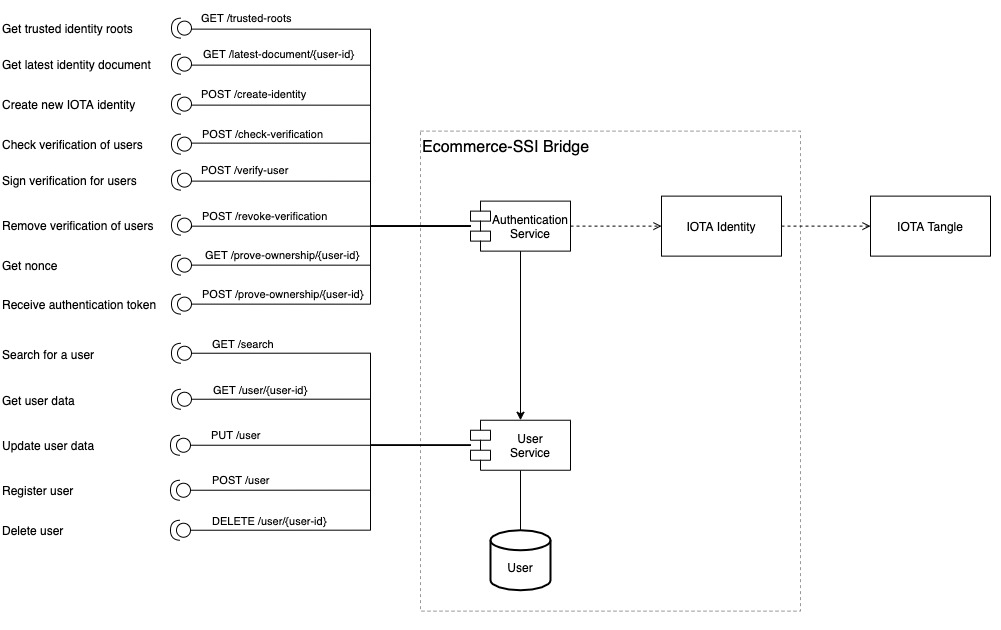
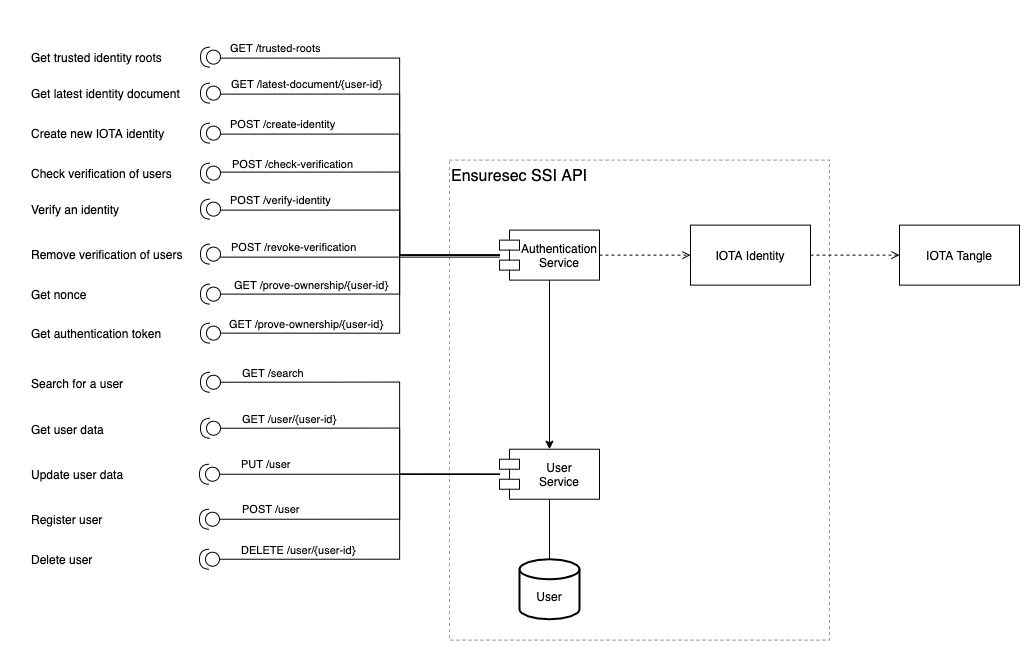
rename verify-user to verify-identity

diff --git a/api/src/routes/authentication/tests/verify-user.test.ts b/api/src/routes/authentication/tests/verify-user.test.ts
@@ -51,7 +51,7 @@ describe('test authentication routes', () => {
 			status: jest.fn(() => res)
 		};
 	});
-	describe('test verifyUser route', () => {
+	describe('test verifyIdentity route', () => {
 		let createVerifiableCredentialSpy: any, keyCollectionIndex: any, getKeyCollectionSpy: any;
 		let getNextCredentialIndexSpy: any, addVerifiableCredentialSpy: any, updateUserVerificationSpy: any, addUserVCSpy: any;
 		const vcMock = { VCMOCK: 1 };
@@ -77,7 +77,7 @@ describe('test authentication routes', () => {
 					initiatorVC
 				}
 			};
-			await authenticationRoutes.verifyUser(req, res, nextMock);
+			await authenticationRoutes.verifyIdentity(req, res, nextMock);
 
 			expect(getUserSpy).toHaveBeenCalledWith(subject.userId);
 			expect(getKeyCollectionSpy).not.toHaveBeenCalledWith(KEY_COLLECTION_INDEX, ServerIdentityMock.doc.id);
@@ -99,7 +99,7 @@ describe('test authentication routes', () => {
 					}
 				}
 			};
-			await authenticationRoutes.verifyUser(req, res, nextMock);
+			await authenticationRoutes.verifyIdentity(req, res, nextMock);
 
 			expect(getUserSpy).toHaveBeenCalledWith(subject.userId);
 			expect(getKeyCollectionSpy).not.toHaveBeenCalledWith(KEY_COLLECTION_INDEX, ServerIdentityMock.doc.id);
@@ -118,7 +118,7 @@ describe('test authentication routes', () => {
 					initiatorVC
 				}
 			};
-			await authenticationRoutes.verifyUser(req, res, nextMock);
+			await authenticationRoutes.verifyIdentity(req, res, nextMock);
 
 			expect(getUserSpy).toHaveBeenCalledWith(subject.userId);
 			expect(getKeyCollectionSpy).not.toHaveBeenCalledWith(KEY_COLLECTION_INDEX, ServerIdentityMock.doc.id);
@@ -140,7 +140,7 @@ describe('test authentication routes', () => {
 					initiatorVC
 				}
 			};
-			await authenticationRoutes.verifyUser(req, res, nextMock);
+			await authenticationRoutes.verifyIdentity(req, res, nextMock);
 
 			expect(getUserSpy).toHaveBeenCalledWith(subject.userId);
 			expect(checkVerifiableCredentialSpy).toHaveBeenCalledWith(initiatorVC);
@@ -160,7 +160,7 @@ describe('test authentication routes', () => {
 					initiatorVC
 				}
 			};
-			await authenticationRoutes.verifyUser(req, res, nextMock);
+			await authenticationRoutes.verifyIdentity(req, res, nextMock);
 
 			expect(subject.organization).not.toEqual(initiatorVC.credentialSubject.organization);
 			expect(getUserSpy).toHaveBeenCalledWith(subject.userId);
@@ -182,7 +182,7 @@ describe('test authentication routes', () => {
 					initiatorVC
 				}
 			};
-			await authenticationRoutes.verifyUser(req, res, nextMock);
+			await authenticationRoutes.verifyIdentity(req, res, nextMock);
 
 			expect(subject.organization).toEqual(initiatorVC.credentialSubject.organization);
 			expect(getUserSpy).toHaveBeenCalledWith(subject.userId);
@@ -232,7 +232,7 @@ describe('test authentication routes', () => {
 				initiatorId: initiatorVC.id,
 				vc: vcMock
 			};
-			await authenticationRoutes.verifyUser(req, res, nextMock);
+			await authenticationRoutes.verifyIdentity(req, res, nextMock);
 
 			expect(getUserSpy).toHaveBeenCalledWith(subject.userId);
 			expect(getKeyCollectionSpy).toHaveBeenCalledWith(KEY_COLLECTION_INDEX, ServerIdentityMock.doc.id, serverSecret);
@@ -295,7 +295,7 @@ describe('test authentication routes', () => {
 				initiatorId: initiatorVC.id,
 				vc: vcMock
 			};
-			await authenticationRoutes.verifyUser(req, res, nextMock);
+			await authenticationRoutes.verifyIdentity(req, res, nextMock);
 
 			expect(getUserSpy).toHaveBeenCalledWith(subject.userId);
 			expect(getKeyCollectionSpy).toHaveBeenCalledWith(KEY_COLLECTION_INDEX, ServerIdentityMock.doc.id, serverSecret);

diff --git a/api/src/routes/router.ts b/api/src/routes/router.ts
@@ -10,7 +10,7 @@ import { CONFIG } from '../config';
 import { UserService } from '../services/user-service';
 import { ChannelInfoService } from '../services/channel-info-service';
 import { IdentityService } from '../services/identity-service';
-import { RevokeVerificationSchema, VerifyUserSchema } from '../models/schemas/authentication';
+import { RevokeVerificationSchema, VerifyIdentitySchema } from '../models/schemas/authentication';
 import { isAuth } from '../middlewares/authentication';
 import { AuthorizationService } from '../services/authorization-service';
 import { VerifiableCredentialSchema } from '../models/schemas/identity';
@@ -62,7 +62,7 @@ const authenticationService = new AuthenticationService(identityService, userSer
 const authenticationRoutes = new AuthenticationRoutes(authenticationService, userService, authorizationService, CONFIG);
 const {
 	createIdentity,
-	verifyUser,
+	verifyIdentity,
 	checkVerifiableCredential,
 	getNonce,
 	revokeVerifiableCredential,
@@ -77,7 +77,7 @@ authenticationRouter.get('/trusted-roots', apiKeyMiddleware, getTrustedRootIdent
 authenticationRouter.get('/prove-ownership/:userId', apiKeyMiddleware, getNonce);
 authenticationRouter.post('/prove-ownership/:userId', apiKeyMiddleware, validate({ body: ProveOwnershipPostBodySchema }), proveOwnership);
 authenticationRouter.post('/create-identity', apiKeyMiddleware, validate({ body: UserWithoutIdSchema }), createIdentity);
-authenticationRouter.post('/verify-user', apiKeyMiddleware, authMiddleWare, validate({ body: VerifyUserSchema }), verifyUser);
+authenticationRouter.post('/verify-identity', apiKeyMiddleware, authMiddleWare, validate({ body: VerifyIdentitySchema }), verifyIdentity);
 authenticationRouter.post('/check-verification', apiKeyMiddleware, validate({ body: VerifiableCredentialSchema }), checkVerifiableCredential);
 authenticationRouter.post(
 	'/revoke-verification',

diff --git a/api/src/routes/authentication/index.ts b/api/src/routes/authentication/index.ts
@@ -3,7 +3,7 @@ import { StatusCodes } from 'http-status-codes';
 import { CreateIdentityBody, VerifiableCredentialJson } from '../../models/types/identity';
 import { AuthenticationService } from '../../services/authentication-service';
 import { Config } from '../../models/config';
-import { AuthenticatedRequest, AuthorizationCheck, RevokeVerificationBody, VerifyUserBody } from '../../models/types/authentication';
+import { AuthenticatedRequest, AuthorizationCheck, RevokeVerificationBody, VerifyIdentityBody } from '../../models/types/authentication';
 import { UserService } from '../../services/user-service';
 import { User, UserRoles } from '../../models/types/user';
 import * as KeyCollectionLinksDb from '../../database/verifiable-credentials';
@@ -34,10 +34,10 @@ export class AuthenticationRoutes {
 		}
 	};
 
-	verifyUser = async (req: AuthenticatedRequest, res: Response, next: NextFunction): Promise<void> => {
+	verifyIdentity = async (req: AuthenticatedRequest, res: Response, next: NextFunction): Promise<void> => {
 		try {
-			const verifyUserBody: VerifyUserBody = req.body;
-			const { initiatorVC, subjectId, checkExistingVC } = verifyUserBody;
+			const verifyIdentityBody: VerifyIdentityBody = req.body;
+			const { initiatorVC, subjectId, checkExistingVC } = verifyIdentityBody;
 			const requestUser = req.user;
 			const subject = await this.userService.getUser(subjectId);
 			if (!subject) {
@@ -54,7 +54,7 @@ export class AuthenticationRoutes {
 				throw error;
 			}
 
-			const vc: VerifiableCredentialJson = await this.authenticationService.verifyUser(
+			const vc: VerifiableCredentialJson = await this.authenticationService.verifyIdentity(
 				subject,
 				this.config.serverIdentityId,
 				initiatorVC?.credentialSubject?.id || requestUser.userId

diff --git a/api/src/models/types/authentication.ts b/api/src/models/types/authentication.ts
@@ -1,9 +1,9 @@
 import Express from 'express';
 import { Static } from '@sinclair/typebox';
-import { RevokeVerificationSchema, VerifyUserSchema } from '../schemas/authentication';
+import { RevokeVerificationSchema, VerifyIdentitySchema } from '../schemas/authentication';
 import { User } from './user';
 
-export type VerifyUserBody = Static<typeof VerifyUserSchema>;
+export type VerifyIdentityBody = Static<typeof VerifyIdentitySchema>;
 export type RevokeVerificationBody = Static<typeof RevokeVerificationSchema>;
 
 export interface AuthenticatedRequest extends Express.Request {

diff --git a/api/src/setup/index.ts b/api/src/setup/index.ts
@@ -73,7 +73,7 @@ export async function setupApi() {
 		}
 
 		console.log('Set server identity as verified...');
-		await authenticationService.verifyUser(serverUser, serverUser.userId, serverUser.userId);
+		await authenticationService.verifyIdentity(serverUser, serverUser.userId, serverUser.userId);
 		console.log(`Setup Done!\nPlease store the generated server identity as environment variable.\nLike: SERVER_IDENTITY=${serverUser.userId}`);
 		process.exit(0);
 	} else {

diff --git a/api/src/models/schemas/authentication.ts b/api/src/models/schemas/authentication.ts
@@ -1,7 +1,7 @@
 import { Type } from '@sinclair/typebox';
 import { VerifiableCredentialSchema } from './identity';
 
-export const VerifyUserSchema = Type.Object({
+export const VerifyIdentitySchema = Type.Object({
 	subjectId: Type.String({ minLength: 50, maxLength: 53 }), // did
 	initiatorVC: Type.Optional(VerifiableCredentialSchema),
 	checkExistingVC: Type.Optional(Type.Boolean())

diff --git a/api/src/services/authentication-service.ts b/api/src/services/authentication-service.ts
@@ -87,7 +87,7 @@ export class AuthenticationService {
 		};
 	};
 
-	verifyUser = async (subject: User, issuerId: string, initiatorId: string) => {
+	verifyIdentity = async (subject: User, issuerId: string, initiatorId: string) => {
 		const jsonldGen = new JsonldGenerator();
 		const data = jsonldGen.jsonldUserData(subject.type, subject.data);
 

diff --git a/api/USAGE.md b/api/USAGE.md
@@ -105,13 +105,13 @@ Create a new decentralized digital identity (DID). It will be signed and publish
 
 Check the verifiable credential of a user. Validates the signed verifiable credential against the Tangle and checks if the issuer DID contained in the credential is a trusted root.
 
-`POST /verify-user`
+`POST /verify-identity`
 
-Verify a user, device or organization at the API Bridge. Only verified users with assigned privileges can verify other identities at the API. Having a verified identity provides the opportunity that other users are able to identify and verify a subscriber by the verifiable credential. 
+Verify an identity like a person, device or organization at the API Bridge. Only verified identities with assigned privileges can verify other identities at the API. Having a verified identity provides the opportunity that other users are able to identify and verify a subscriber by the verifiable credential. 
 
 `POST /revoke-verification`
 
-Remove the verification of a user. In the case of individual and organization identities the reason could be that the user has left the organization. Only organization admins, the initiator or the user itself can do that.
+Remove the verification of an identity. In the case of individual and organization identities the reason could be that the user has left the organization. Only organization admins, the initiator or the user itself can do that.
 
 `GET /prove-ownership/{user-id}`
 
@@ -235,12 +235,12 @@ An identity can be used to authenticate a user to a number of services provided 
 - get('/users/search')
 - put('/users/user')
 - delete('/users/user/:userId')
-- post('/authentication/verify-user')
+- post('/authentication/verify-identity')
 - post('/authentication/revoke-verification')
 
 How the client can authenticate at the API is described in the following sequence diagram which refers to verify user (section 3) as an example.
 
-![verify user sd](./src/assets/diagrams/verify-user-sd.jpeg)
+![verify user sd](./src/assets/diagrams/verify-identity-sd.jpeg)
 
 As described in the sequence diagram the client must request and then sign a nonce in order to being able to authenticate at the API. Therefore two scripts must be implemented by the client `getHexEncodedKey` & `signNonce` which are described in the following:
 
@@ -360,7 +360,7 @@ Everyone can create an identity and add any data to such identity, that is why i
 
 The endpoint of this request is as following:
 
-https://ensuresec.solutions.iota.org/api/v0.1/authentication/verify-user
+https://ensuresec.solutions.iota.org/api/v0.1/authentication/verify-identity
 
 > As described in section 2, the request must be authenticated by having a valid Bearer token in the Authorization header otherwise the api returns a "401 Unauthorized" status code.
 
